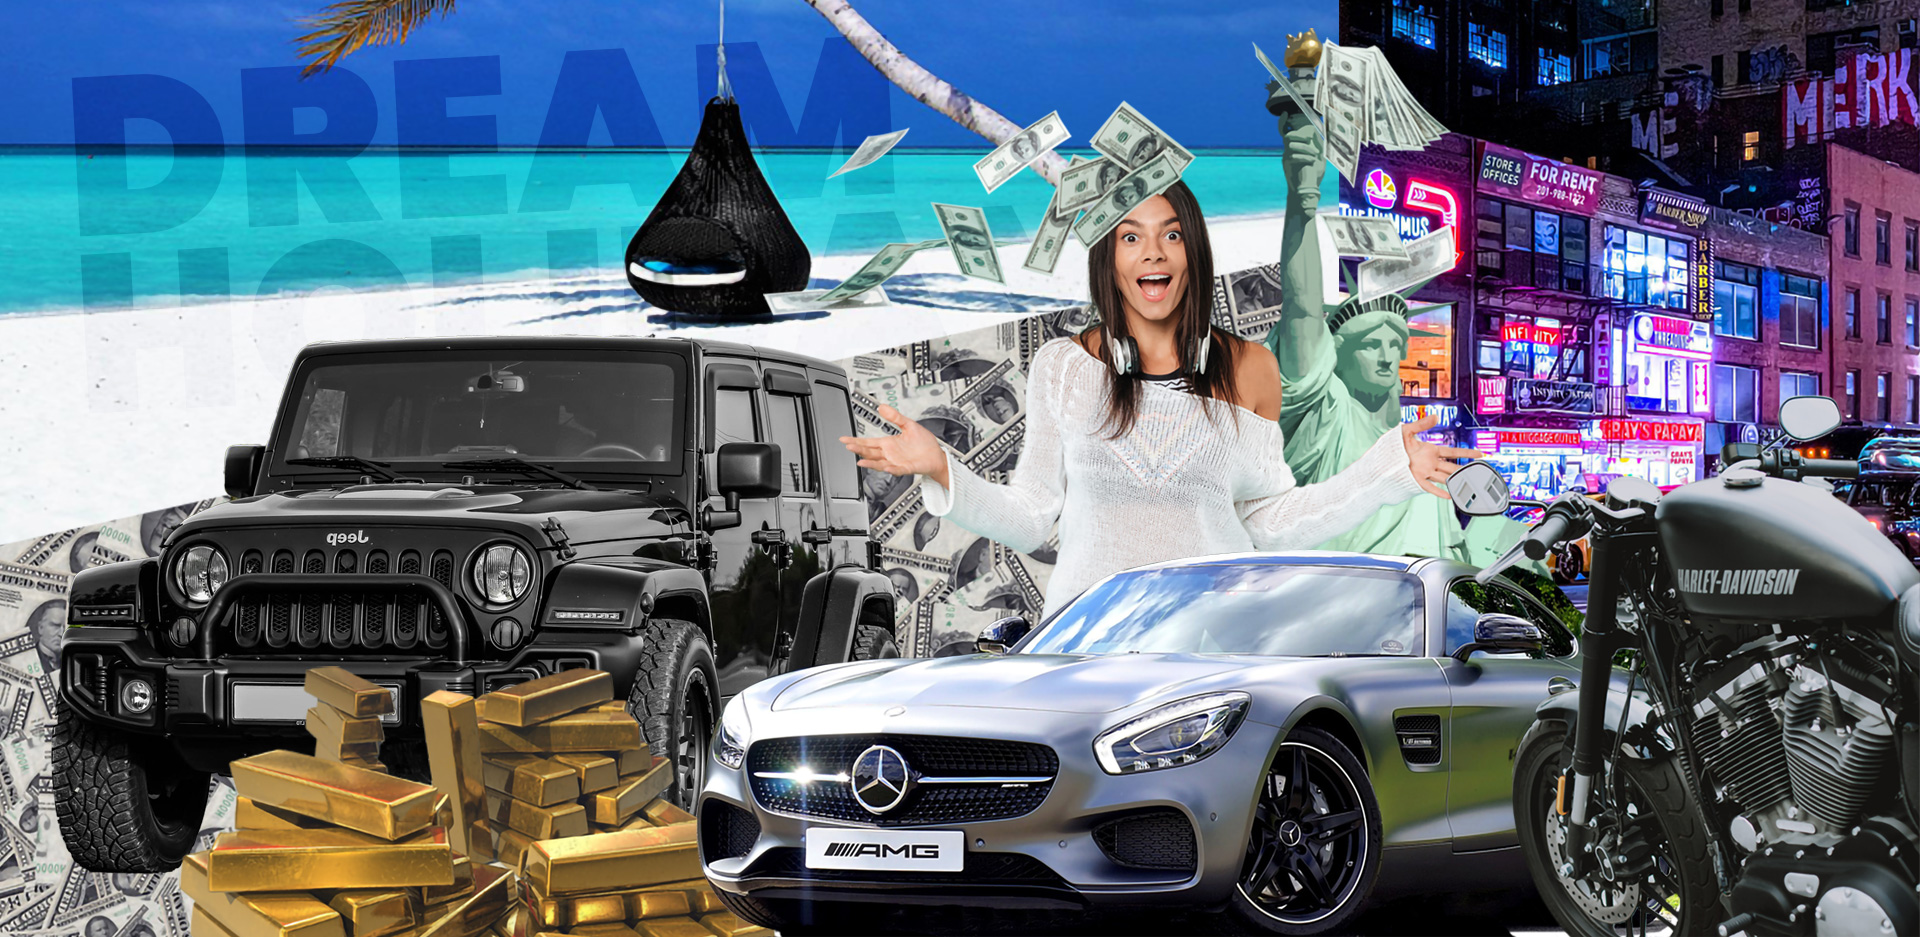
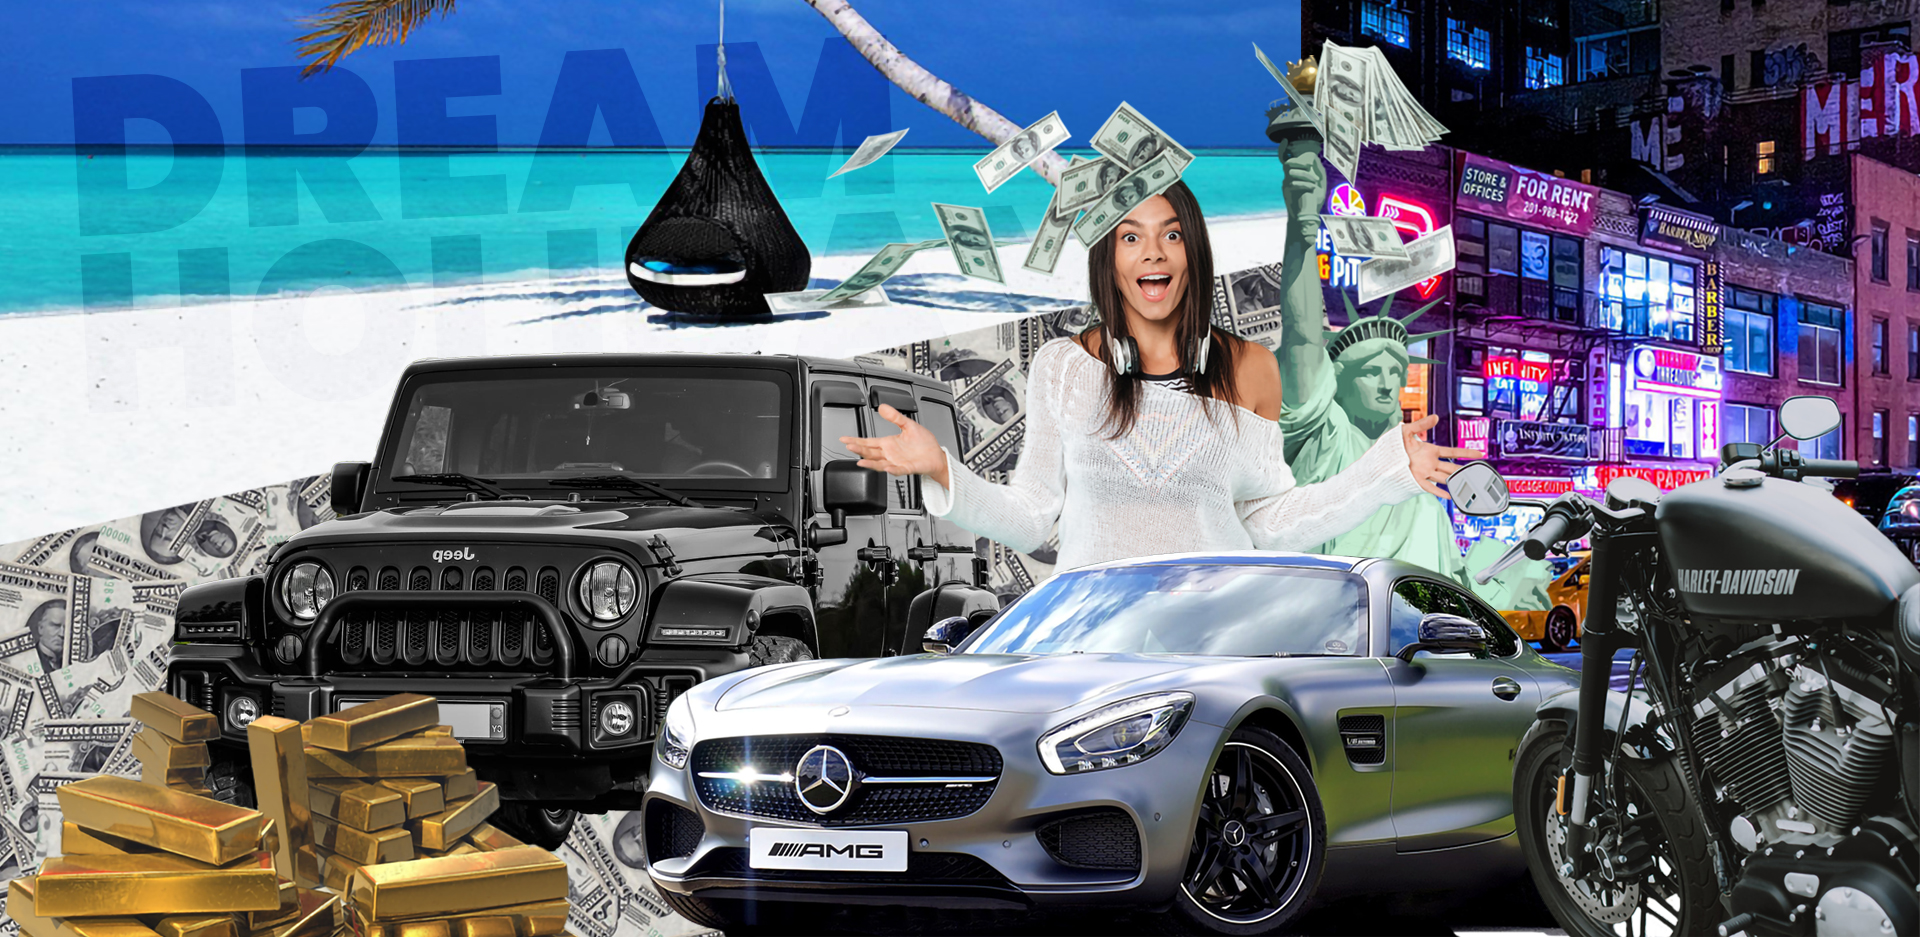
hero image update and mobile hero

diff --git a/src/components/landingPage/hero/Hero.tsx b/src/components/landingPage/hero/Hero.tsx
@@ -1,22 +1,21 @@
-import { Container, Stack, Box, Heading, Text, Button } from '@chakra-ui/react';
-import { useRouter } from 'next/router';
+import { Container, Stack, Box, Heading, Text } from '@chakra-ui/react';
+
+import CTAs from '@/root/components/landingPage/hero/CTAs';
 
 import styles from './Hero.module.scss';
 
 const Hero = () => {
-  const router = useRouter();
-
   return (
     <Box
       width="100%"
-      // backgroundImage={{ base: 'url(./mobil_hero.jpeg)', md: 'url(./desktop_hero.jpg)' }}
-      backgroundImage="url(./desktop_hero.jpg)"
+      backgroundImage={{ base: 'url(./mobile_hero.jpg)', md: 'url(./desktop_hero.jpg)' }}
       backgroundSize="cover"
       backgroundPosition="center center"
     >
       <Container
         height={{ base: '500px', md: 'calc(100vh - 128px)' }}
         maxW="8xl"
+        position="relative"
         paddingX={{ base: '25px', md: '40px' }}
       >
         <Stack
@@ -52,38 +51,7 @@ const Hero = () => {
                 Home of the play to win &amp; earn games
               </Text>
             </Box>
-            <Stack spacing={{ base: 4, sm: 6 }} direction={{ base: 'column', sm: 'column' }}>
-              <Button
-                onClick={() => router.push('/nfts')}
-                rounded="full"
-                variant="solid"
-                size="lg"
-                px={6}
-                width={{ base: 'auto', md: '100%' }}
-                colorScheme="yellow"
-              >
-                NFTs
-              </Button>
-              <Button
-                onClick={() => router.push('/game')}
-                width={{ base: 'auto', md: '100%' }}
-                variant="outline"
-                color="white"
-                rounded="full"
-                size="lg"
-                fontWeight="normal"
-                borderWidth="3px"
-                borderColor="black.800"
-                px={6}
-                _hover={{
-                  textDecoration: 'none',
-                  bg: 'yellow.400',
-                  color: 'black.900',
-                }}
-              >
-                The Gameplay
-              </Button>
-            </Stack>
+            <CTAs />
           </Stack>
         </Stack>
       </Container>

diff --git a/src/components/landingPage/hero/CTAs.tsx b/src/components/landingPage/hero/CTAs.tsx
@@ -1,0 +1,44 @@
+import React from 'react';
+import { Button, Stack } from '@chakra-ui/react';
+import { useRouter } from 'next/router';
+
+const CtAs = () => {
+  const router = useRouter();
+
+  return (
+    <Stack spacing={{ base: 4, sm: 6 }} direction={{ base: 'column', sm: 'column' }}>
+      <Button
+        onClick={() => router.push('/nfts')}
+        rounded="full"
+        variant="solid"
+        size="lg"
+        px={6}
+        width={{ base: 'auto', md: '100%' }}
+        colorScheme="yellow"
+      >
+        NFTs
+      </Button>
+      <Button
+        onClick={() => router.push('/game')}
+        width={{ base: 'auto', md: '100%' }}
+        variant="outline"
+        color="white"
+        rounded="full"
+        size="lg"
+        fontWeight="normal"
+        borderWidth="3px"
+        borderColor="black.800"
+        px={6}
+        _hover={{
+          textDecoration: 'none',
+          bg: 'yellow.400',
+          color: 'black.900',
+        }}
+      >
+        The Gameplay
+      </Button>
+    </Stack>
+  );
+};
+
+export default CtAs;

diff --git a/src/components/landingPage/header/Header.tsx b/src/components/landingPage/header/Header.tsx
@@ -179,7 +179,7 @@ const LandingPageHeader = () => {
               </Stack>
             </Box>
           ) : null}
-          <Box marginY={10} display={{ md: 'none' }}>
+          <Box marginY={5} display={{ md: 'none' }}>
             <Heading
               marginBottom="10px"
               lineHeight={1.1}
